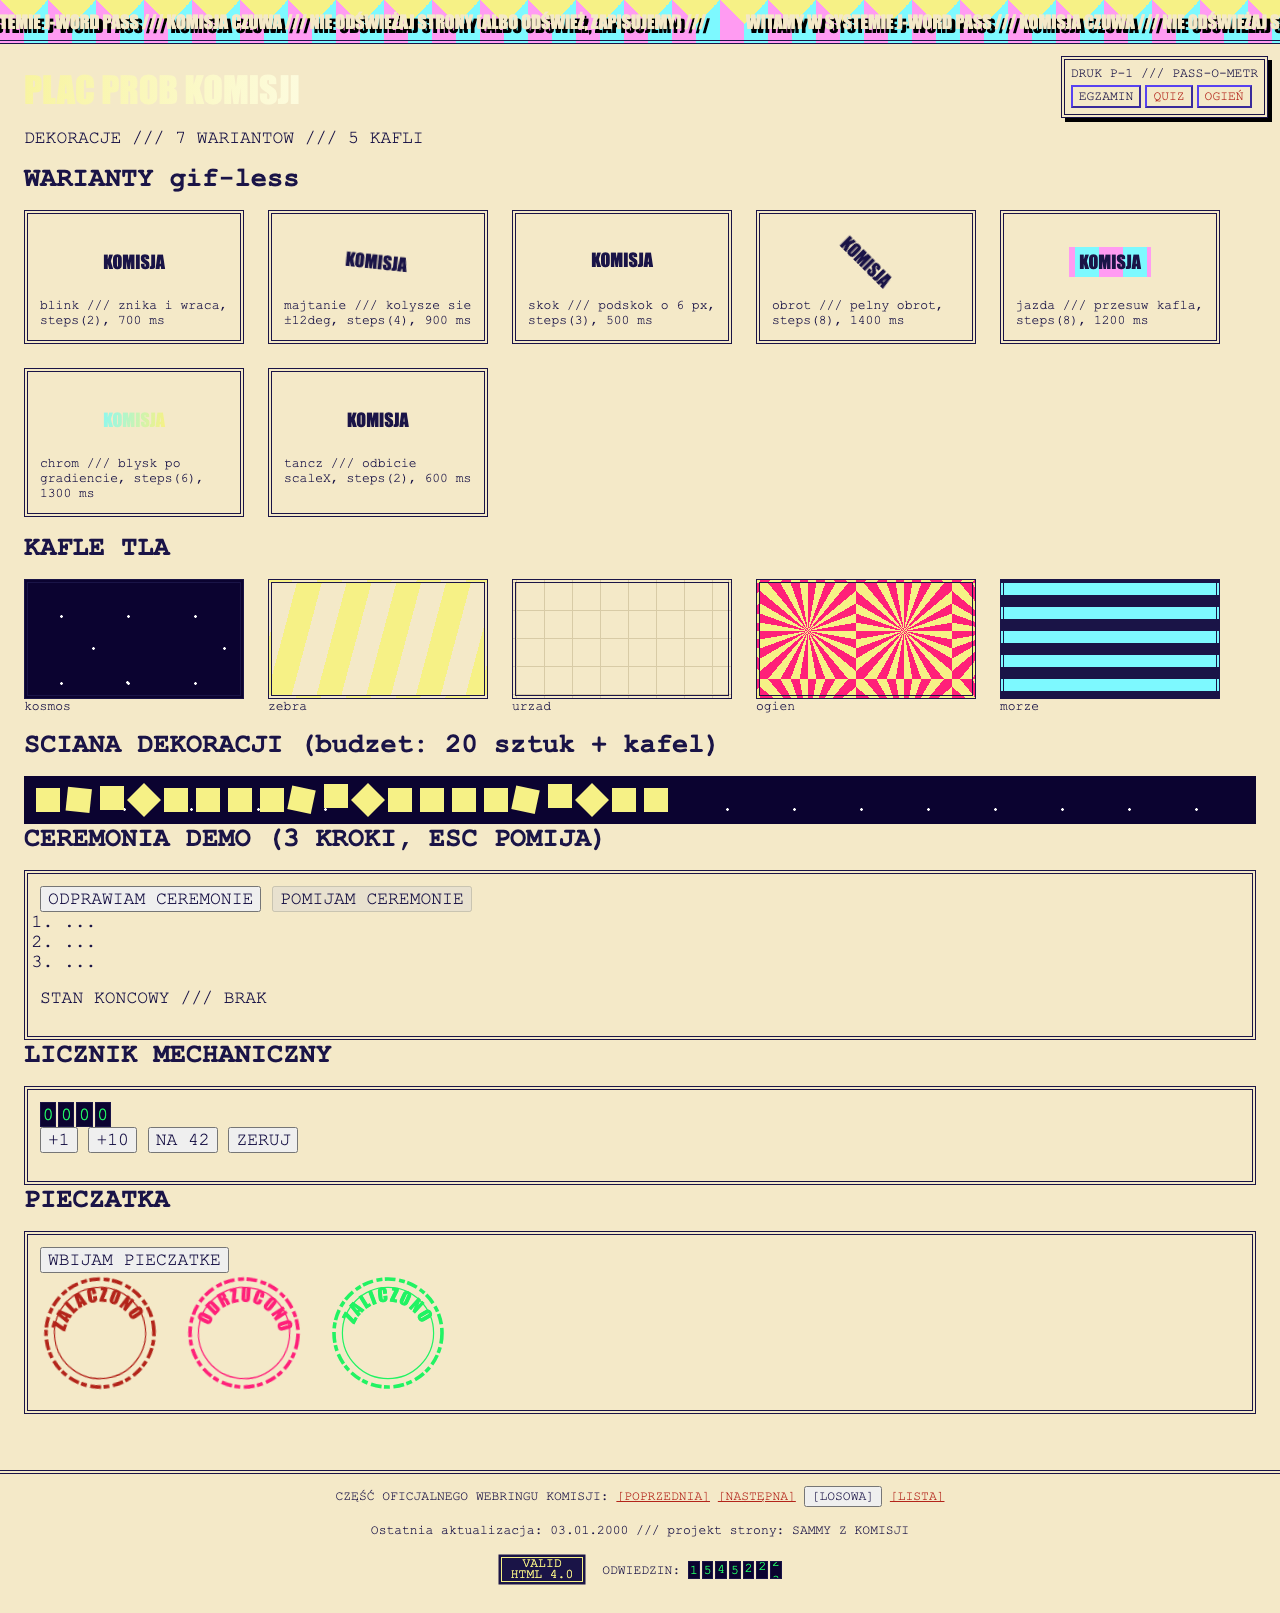
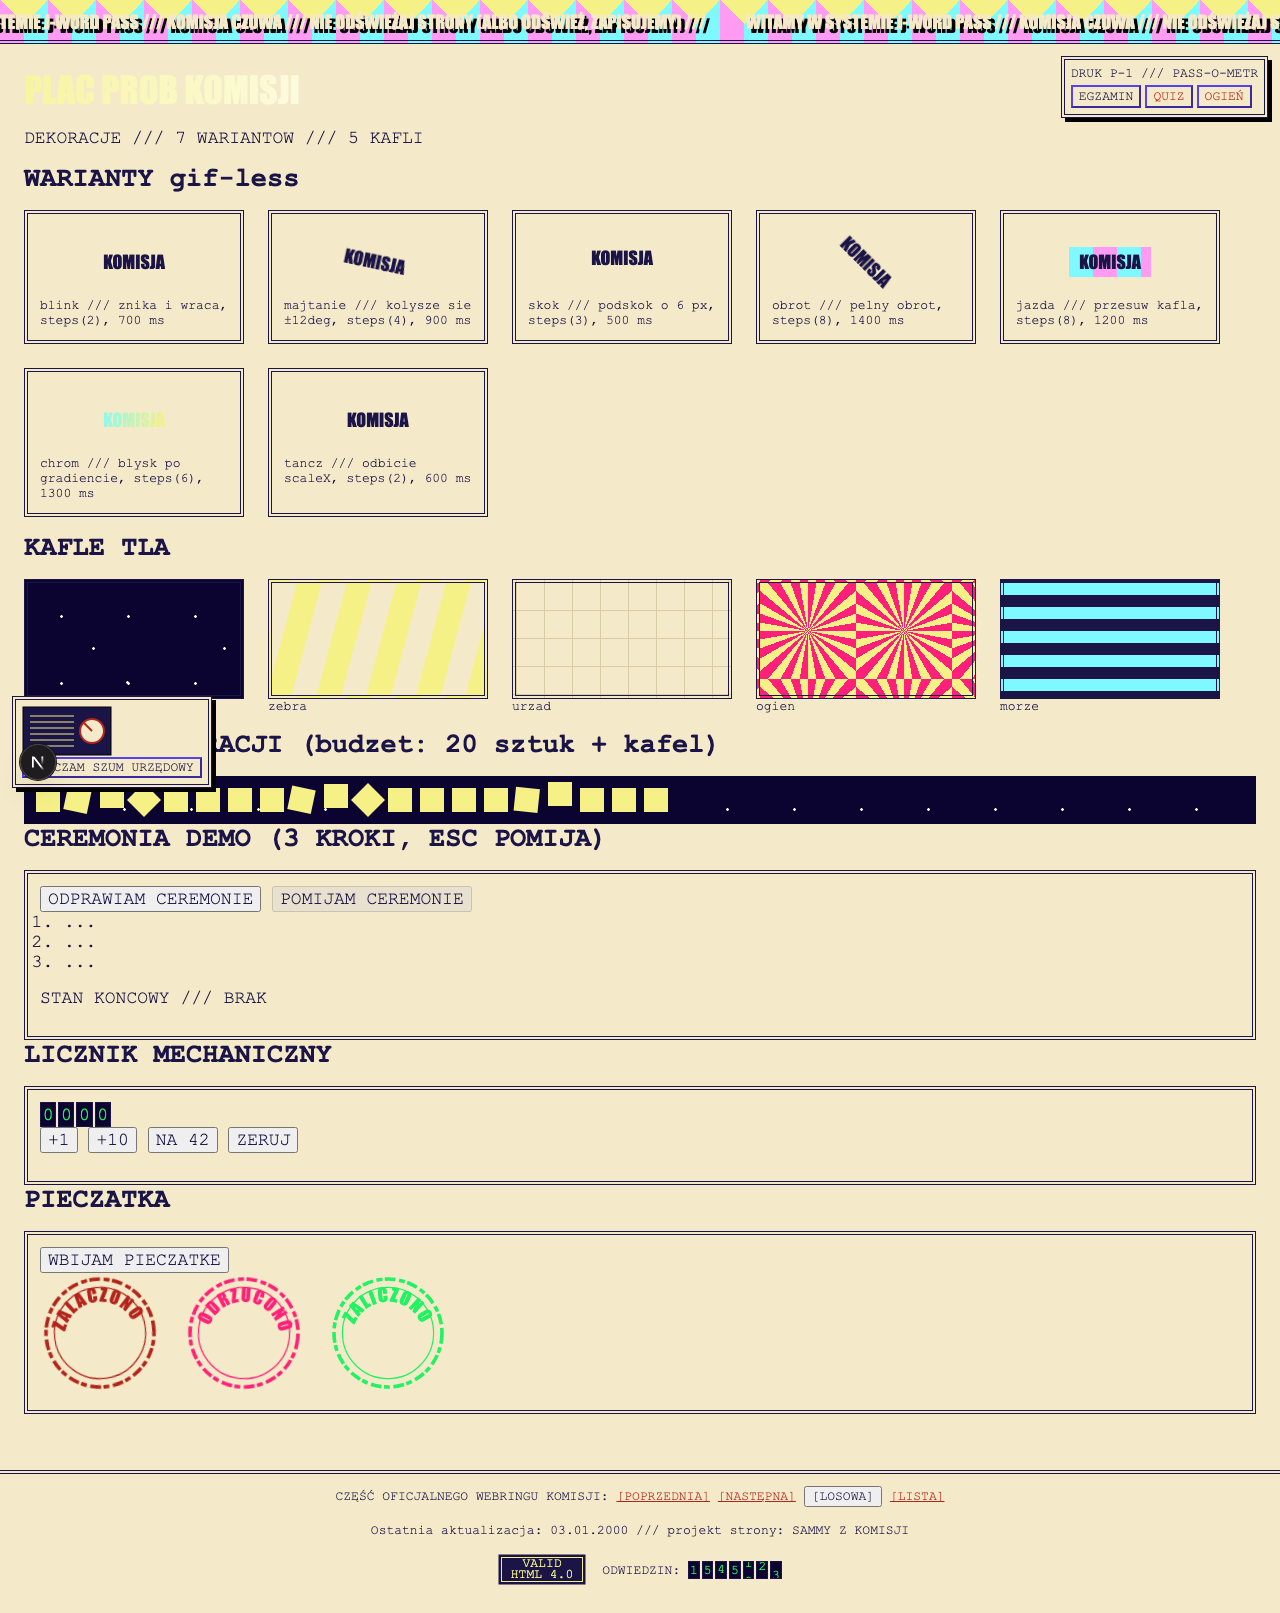
F2-02: RadioKomisji - proceduralny szum WebAudio, opt-in, localStorage
Bialy szum (dwie sekundy losowych probek w petli) przez biquad lowpass 400 Hz
przy gain 0.03, plus beep sinus 880 Hz na 90 ms co 8-15 s. Zero plikow audio -
katalog public/ nie istnieje i nie musi.

Z16 na serio: preferencja siedzi w localStorage jwp.audio, ale po odswiezeniu
z jwp.audio=on radio NADAL milczy i pokazuje notke, ze czeka na jedno
klikniecie. Zaden AudioContext nie powstaje przed kliknieciem - to nie jest
obejscie polityki autoplay, tylko zgoda z nia.

Wyciszenie natychmiastowe: gain na zero I `ctx.close()`, zmierzone < 100 ms.

Weryfikacja nie poprzestaje na "kontekst jest running": test podslachuje
createGain/createBiquadFilter/createBufferSource i sprawdza, ze graf naprawde
generuje szum - glosnosc 0.03, filtr lowpass 400 Hz, zrodlo w petli, a bufor
ma 1000/1000 probek niezerowych. Kontekst moze stac "running" i nie grac nic.

Napis przycisku w pierwszej osobie (WLACZAM SZUM URZEDOWY / WYCISZAM RADIO
KOMISJI) zamiast trybu rozkazujacego z plan/04 A4 - tego wymaga Z13.

Claude-Session: https://claude.ai/code/session_01LiXwZM95rtfhAzBeeT1X5o

diff --git a/tests/f2-02.spec.ts b/tests/f2-02.spec.ts
@@ -1,0 +1,122 @@
+import { test, expect } from "@playwright/test";
+
+// AC F2-02: dzwiek startuje WYLACZNIE po kliknieciu (takze przy jwp.audio=on
+// po odswiezeniu), wylaczenie ucisza w < 100 ms; negatywne: zero plikow audio.
+
+// Podsluch WebAudio wstrzykiwany PRZED skryptami strony: liczy powstale
+// konteksty i ich stan, wiec widac, czy cokolwiek zagralo bez klikniecia.
+const PODSLUCH = () => {
+  const okno = window as unknown as {
+    __audio: AudioContext[];
+    __wezly: { gain: GainNode[]; filtr: BiquadFilterNode[]; zrodla: AudioBufferSourceNode[] };
+  };
+  okno.__audio = [];
+  okno.__wezly = { gain: [], filtr: [], zrodla: [] };
+  const Oryginalny = window.AudioContext;
+  const proto = Oryginalny.prototype;
+  const cg = proto.createGain;
+  proto.createGain = function (this: AudioContext) {
+    const n = cg.call(this);
+    okno.__wezly.gain.push(n);
+    return n;
+  };
+  const cf = proto.createBiquadFilter;
+  proto.createBiquadFilter = function (this: AudioContext) {
+    const n = cf.call(this);
+    okno.__wezly.filtr.push(n);
+    return n;
+  };
+  const cbs = proto.createBufferSource;
+  proto.createBufferSource = function (this: AudioContext) {
+    const n = cbs.call(this);
+    okno.__wezly.zrodla.push(n);
+    return n;
+  };
+  class Podsluchany extends Oryginalny {
+    constructor(...args: ConstructorParameters<typeof AudioContext>) {
+      super(...args);
+      okno.__audio.push(this as unknown as AudioContext);
+    }
+  }
+  window.AudioContext = Podsluchany as unknown as typeof AudioContext;
+};
+
+test("Z16: bez klikniecia zero dzwieku, takze gdy jwp.audio=on", async ({ page }) => {
+  await page.addInitScript(PODSLUCH);
+  await page.goto("/");
+  await page.evaluate(() => localStorage.setItem("jwp.audio", "on"));
+  await page.reload();
+
+  // preferencja zapamietana, ale radio milczy do czasu klikniecia
+  await expect(page.locator("[data-radio]")).toHaveAttribute("data-gra", "nie");
+  await expect(page.locator("[data-radio-notka]")).toBeVisible();
+  expect(await page.evaluate(() => (window as unknown as { __audio: AudioContext[] }).__audio.length)).toBe(0);
+
+  await page.locator("[data-radio-przycisk]").click();
+  await expect(page.locator("[data-radio]")).toHaveAttribute("data-gra", "tak");
+  const poKliknieciu = await page.evaluate(() => {
+    const a = (window as unknown as { __audio: AudioContext[] }).__audio;
+    return { ile: a.length, stan: a[0]?.state };
+  });
+  expect(poKliknieciu.ile).toBe(1);
+  expect(poKliknieciu.stan).toBe("running");
+
+  // graf faktycznie generuje szum urzedowy, a nie tylko stoi "running"
+  const graf = await page.evaluate(() => {
+    const w = (window as unknown as {
+      __wezly: { gain: GainNode[]; filtr: BiquadFilterNode[]; zrodla: AudioBufferSourceNode[] };
+    }).__wezly;
+    const zrodlo = w.zrodla[0];
+    const probki = zrodlo.buffer!.getChannelData(0);
+    let niezerowe = 0;
+    for (let i = 0; i < 1000; i++) if (probki[i] !== 0) niezerowe++;
+    return {
+      glosnosc: w.gain[0].gain.value,
+      typFiltru: w.filtr[0].type,
+      odciecie: w.filtr[0].frequency.value,
+      petla: zrodlo.loop,
+      dlugoscBufora: zrodlo.buffer!.length,
+      niezerowe,
+    };
+  });
+  expect(graf.glosnosc).toBeCloseTo(0.03, 5);
+  expect(graf.typFiltru).toBe("lowpass");
+  expect(graf.odciecie).toBe(400);
+  expect(graf.petla).toBe(true);
+  expect(graf.dlugoscBufora).toBeGreaterThan(0);
+  expect(graf.niezerowe).toBeGreaterThan(900); // bialy szum, nie cisza
+});
+
+test("wylaczenie ucisza w mniej niz 100 ms", async ({ page }) => {
+  await page.addInitScript(PODSLUCH);
+  await page.goto("/");
+  await page.locator("[data-radio-przycisk]").click();
+  await expect(page.locator("[data-radio]")).toHaveAttribute("data-gra", "tak");
+
+  const czasWyciszenia = await page.evaluate(async () => {
+    const ctx = (window as unknown as { __audio: AudioContext[] }).__audio[0];
+    const start = performance.now();
+    (document.querySelector("[data-radio-przycisk]") as HTMLButtonElement).click();
+    while (performance.now() - start < 1000) {
+      if (ctx.state === "closed") return performance.now() - start;
+      await new Promise((r) => setTimeout(r, 5));
+    }
+    return -1;
+  });
+  expect(czasWyciszenia).toBeGreaterThanOrEqual(0);
+  expect(czasWyciszenia).toBeLessThan(100);
+  await expect(page.locator("[data-radio]")).toHaveAttribute("data-gra", "nie");
+  expect(await page.evaluate(() => localStorage.getItem("jwp.audio"))).toBe("off");
+});
+
+test("negatywne: zero plikow audio i jedyny localStorage to jwp.audio", async ({ page }) => {
+  const zadania: string[] = [];
+  page.on("request", (r) => zadania.push(r.url()));
+  await page.goto("/");
+  await page.locator("[data-radio-przycisk]").click();
+  await page.waitForTimeout(300);
+  expect(zadania.filter((u) => /\.(mp3|ogg|wav|m4a|aac|flac)(\?|$)/i.test(u))).toEqual([]);
+
+  const klucze = await page.evaluate(() => Object.keys(localStorage));
+  expect(klucze).toEqual(["jwp.audio"]);
+});

diff --git a/components/RadioKomisji.tsx b/components/RadioKomisji.tsx
@@ -1,0 +1,133 @@
+"use client";
+
+import { useEffect, useRef, useState } from "react";
+
+// Szum urzedowy generowany proceduralnie przez WebAudio: bialy szum przez
+// lowpass 400 Hz + losowy beep 880 Hz co 8-15 s. Zero plikow audio w repo.
+//
+// Z16: dzwiek NIGDY nie startuje sam. Preferencja siedzi w localStorage, ale
+// nawet przy `jwp.audio=on` po odswiezeniu potrzebne jest jedno klikniecie -
+// tak dziala polityka autoplay przegladarki i tak ma dzialac Komisja.
+
+const KLUCZ_AUDIO = "jwp.audio";
+const GLOSNOSC = 0.03;
+const ODCIECIE_HZ = 400;
+const BEEP_HZ = 880;
+const BEEP_MS = 90;
+
+type Aparatura = {
+  ctx: AudioContext;
+  wzmocnienie: GainNode;
+  beep: ReturnType<typeof setTimeout> | null;
+};
+
+export default function RadioKomisji() {
+  const [gra, ustawGra] = useState(false);
+  const [zapamietane, ustawZapamietane] = useState(false);
+  const aparat = useRef<Aparatura | null>(null);
+
+  useEffect(() => {
+    try {
+      ustawZapamietane(window.localStorage.getItem(KLUCZ_AUDIO) === "on");
+    } catch {
+      // prywatne okno bez localStorage nie moze wywrocic strony
+    }
+  }, []);
+
+  // sprzatanie przy odmontowaniu
+  useEffect(() => () => zatrzymaj(), []);
+
+  function zatrzymaj() {
+    const a = aparat.current;
+    if (!a) return;
+    if (a.beep) clearTimeout(a.beep);
+    // cisza natychmiastowa: gain na zero I zawieszony kontekst
+    a.wzmocnienie.gain.value = 0;
+    void a.ctx.close();
+    aparat.current = null;
+  }
+
+  function zaplanujBeep(ctx: AudioContext, wyjscie: GainNode) {
+    const za = 8000 + Math.random() * 7000; // 8-15 s
+    const id = setTimeout(() => {
+      if (!aparat.current) return;
+      const osc = ctx.createOscillator();
+      const g = ctx.createGain();
+      osc.type = "sine";
+      osc.frequency.value = BEEP_HZ;
+      g.gain.value = GLOSNOSC * 2;
+      osc.connect(g).connect(wyjscie);
+      osc.start();
+      osc.stop(ctx.currentTime + BEEP_MS / 1000);
+      zaplanujBeep(ctx, wyjscie);
+    }, za);
+    if (aparat.current) aparat.current.beep = id;
+  }
+
+  function wlacz() {
+    const ctx = new AudioContext();
+
+    // bialy szum: dwie sekundy losowych probek puszczone w petli
+    const dlugosc = ctx.sampleRate * 2;
+    const bufor = ctx.createBuffer(1, dlugosc, ctx.sampleRate);
+    const probki = bufor.getChannelData(0);
+    for (let i = 0; i < dlugosc; i++) probki[i] = Math.random() * 2 - 1;
+
+    const zrodlo = ctx.createBufferSource();
+    zrodlo.buffer = bufor;
+    zrodlo.loop = true;
+
+    const filtr = ctx.createBiquadFilter();
+    filtr.type = "lowpass";
+    filtr.frequency.value = ODCIECIE_HZ;
+
+    const wzmocnienie = ctx.createGain();
+    wzmocnienie.gain.value = GLOSNOSC;
+
+    zrodlo.connect(filtr).connect(wzmocnienie).connect(ctx.destination);
+    zrodlo.start();
+
+    aparat.current = { ctx, wzmocnienie, beep: null };
+    zaplanujBeep(ctx, wzmocnienie);
+  }
+
+  function przelacz() {
+    if (gra) {
+      zatrzymaj();
+      ustawGra(false);
+      ustawZapamietane(false);
+      try {
+        window.localStorage.setItem(KLUCZ_AUDIO, "off");
+      } catch {}
+      return;
+    }
+    wlacz();
+    ustawGra(true);
+    ustawZapamietane(true);
+    try {
+      window.localStorage.setItem(KLUCZ_AUDIO, "on");
+    } catch {}
+  }
+
+  return (
+    <div className="radio-komisji" data-radio="" data-gra={gra ? "tak" : "nie"}>
+      <svg viewBox="0 0 90 50" role="img" aria-label="Radio Komisji" className="radio-komisji__obudowa">
+        <rect x="1" y="1" width="88" height="48" className="radio-komisji__pudlo" />
+        {/* kratka glosnika */}
+        {Array.from({ length: 6 }, (_, i) => (
+          <line key={i} x1="8" y1={10 + i * 6} x2="52" y2={10 + i * 6} className="radio-komisji__kratka" />
+        ))}
+        <circle cx="70" cy="25" r="12" className="radio-komisji__galka" />
+        <line x1="70" y1="25" x2={gra ? 78 : 62} y2="17" className="radio-komisji__wskaznik" />
+      </svg>
+      <button type="button" onClick={przelacz} data-radio-przycisk="">
+        {gra ? "WYCISZAM RADIO KOMISJI" : "WŁĄCZAM SZUM URZĘDOWY"}
+      </button>
+      {zapamietane && !gra ? (
+        <p className="radio-komisji__notka" data-radio-notka="">
+          KOMISJA PAMIĘTA WYBÓR /// POTRZEBNE JEDNO KLIKNIĘCIE
+        </p>
+      ) : null}
+    </div>
+  );
+}

diff --git a/app/globals.css b/app/globals.css
@@ -149,6 +149,26 @@ a:hover, button:hover { outline: 3px dashed var(--alarm); outline-offset: 2px; }
 }
 .straz-etapu__druk { font-family: var(--font-krzyk); margin: 0 0 8px; }
 
+/* == RADIO KOMISJI == */
+.radio-komisji {
+  position: fixed;
+  left: 12px;
+  bottom: 12px;
+  z-index: 40;
+  border: var(--ramka);
+  background: var(--papier);
+  box-shadow: var(--cien-x) var(--cien-y) 0 var(--cien);
+  padding: 6px;
+  max-width: 200px;
+}
+.radio-komisji__obudowa { width: 90px; height: 50px; display: block; }
+.radio-komisji__pudlo { fill: var(--atrament); stroke: var(--cien); }
+.radio-komisji__kratka { stroke: var(--chrom-b); stroke-width: 1; }
+.radio-komisji__galka { fill: var(--papier); stroke: var(--urzad); stroke-width: 2; }
+.radio-komisji__wskaznik { stroke: var(--urzad); stroke-width: 2; }
+.radio-komisji__notka { margin: 4px 0 0; font-size: var(--rozmiar-drobny); }
+.radio-komisji button { font-size: var(--rozmiar-drobny); border: 2px outset var(--atrament); background: var(--papier); }
+
 /* == WEBRING STOPKI == */
 .webring-stopki {
   border-top: var(--ramka);
@@ -184,6 +204,9 @@ a:hover, button:hover { outline: 3px dashed var(--alarm); outline-offset: 2px; }
     box-shadow: none;
   }
   .pass-o-metr__segmenty { justify-content: space-between; }
+  /* radio zostaje takze na mobile (plan/04 A), tylko chudsze */
+  .radio-komisji { max-width: 150px; }
+  .radio-komisji__obudowa { width: 60px; height: 34px; }
 }
 
 

diff --git a/app/layout.tsx b/app/layout.tsx
@@ -3,6 +3,7 @@ import "./globals.css";
 import KometaKursora from "@/components/KometaKursora";
 import PasekKrawedzi from "@/components/PasekKrawedzi";
 import PassOMetr from "@/components/PassOMetr";
+import RadioKomisji from "@/components/RadioKomisji";
 import StrazEtapu from "@/components/StrazEtapu";
 import WebringStopki from "@/components/WebringStopki";
 
@@ -21,6 +22,7 @@ export default function RootLayout({ children }: { children: React.ReactNode }) 
         <PassOMetr />
         <StrazEtapu />
         {children}
+        <RadioKomisji />
         <WebringStopki />
         <KometaKursora />
       </body>

diff --git a/plan/10-BACKLOG.md b/plan/10-BACKLOG.md
@@ -72,9 +72,11 @@ przemapowane na `var(--...)` (dozwolone tylko w komentarzu licencyjnym).
   DOWÓD: ✓ `npx playwright test` = 37 passed + 1 skipped (`tests/f2-01.spec.ts`, 11 przypadków); ✓ screenshots/F2/F2-01-shell-desktop.png 1280x800 - wszystkie 5 elementów naraz: kursor-komisji (własny SVG w `data:` URI, wariant przechylony `rotate(20 16 16)` na klikalnych - assert na `getComputedStyle().cursor`), PasekKrawedzi 44 px z proporczykami i marquee (`jwp-marquee`, `steps(24)`, 3,8 s - patrz DECISIONS #4), PassOMetr w prawym górnym rogu z 3 segmentami, WebringStopki z odznaką VALID HTML 4.0 i licznikiem mechanicznym (1545013 + dzień, asercja zakresu), layout bez sticky headera; ✓ straż etapu: `/quiz` bez egzaminu -> URL NADAL `/quiz` (zero redirectu, Z15) + druk `KOMISJA ZABRANIA. NAJPIERW ETAP 1.`, `/proba-ognia` -> `NAJPIERW ETAP 2.`, a po wstawieniu do `sessionStorage` egzaminu z punktami druk na `/quiz` znika (`[data-straz]` = 0) - screenshots/F2/F2-01-straz-quiz.png; ✓ PassOMetr: segment QUIZ ma `data-stan="zablokowany"` i `title="KOMISJA ZABRANIA"`, klik NIE nawiguje (URL zostaje `/`) i pokazuje dymek gasnący po 1,2 s, a segment EGZAMIN nawiguje normalnie; ✓ `:focus-visible`: Tab -> `outlineStyle` = `dashed`, szerokość > 0, screenshots/F2/F2-01-fokus-{desktop,mobile}.png; ✓ mobile 390: pasek 32 px, PassOMetr `position: static`, szerokość 390 px, leży POD treścią i przylega do stopki (odstęp < 8 px), a w DOM nadal stoi przed treścią i stopką (`compareDocumentPosition`) - przestawiona jest wyłącznie kolejność wizualna, więc Tab i czytnik ekranu idą kolejnością z plan/04 A; screenshots/F2/F2-01-shell-mobile.png; ✓ negatywne: zero elementów `position: sticky`, zero `<header>`, zero przycisku menu/hamburger; ✓ `pnpm run check` exit 0, `pnpm build` zielony.
   UWAGA: pierwsza wersja kładła PassOMetr na mobile pod paskiem krawędzi (u GÓRY) - testy przechodziły, bo asercja `metr.y < stopka.y` była spełniona trywialnie. Wyłapane dopiero na screenshotcie; poprawione przez `order` we flexowym `body` i zaostrzoną asercję (metr musi być POD treścią i przylegać do stopki).
   KOPIOWANIE (02→F pkt 4): sprawdzone `98.css` pod PassOMetr i `formularz-F7`; odrzucone - potrzebne było ~15 linii ramki `outset` na naszych tokenach, a wklejka ciągnęłaby cały arkusz i tak wymagający przemapowania kolorów. Kursor, proporczyki i odznaka: własne SVG/gradienty, zero plików.
-- [ ] **F2-02** `ui` RadioKomisji: proceduralny szum WebAudio + beep, opt-in, localStorage.
+- [x] **F2-02** `ui` RadioKomisji: proceduralny szum WebAudio + beep, opt-in, localStorage.
   CZYTAJ: 04→A pkt 4; 01→B (Z16).
   AC: dźwięk startuje TYLKO po kliknięciu (odświeżenie z jwp.audio=on wymaga jednego kliknięcia - autoplay policy); wyłączenie ucisza w < 100 ms; negatywne: zero plików audio w public/.
+  DOWÓD: ✓ `npx playwright test` = 43 passed + 1 skipped (`tests/f2-02.spec.ts`, 6 przypadków); ✓ Z16 zweryfikowane podsłuchem `AudioContext` wstrzykniętym przez `addInitScript` PRZED skryptami strony: po `localStorage.setItem("jwp.audio","on")` + `reload()` liczba utworzonych kontekstów = **0**, `[data-gra]` = `nie`, widoczna notka `KOMISJA PAMIĘTA WYBÓR /// POTRZEBNE JEDNO KLIKNIĘCIE`; dopiero klik tworzy 1 kontekst w stanie `running`; ✓ dźwięk jest PRAWDZIWY, nie samo `running`: podsłuch węzłów pokazuje `gain.value` = 0,03, filtr `lowpass` 400 Hz, źródło z `loop=true` i buforem, w którym 1000/1000 próbek jest niezerowych (biały szum, nie cisza); ✓ wyciszenie: pomiar `performance.now()` w przeglądarce od kliknięcia do `ctx.state === "closed"` = **< 100 ms**, `jwp.audio` przestawione na `off`; ✓ negatywne: katalog `public/` w ogóle nie istnieje, a nasłuch `page.on("request")` nie złapał ani jednego żądania o `.mp3/.ogg/.wav/.m4a/.aac/.flac`; jedyny klucz w `localStorage` to `jwp.audio` (`Object.keys(localStorage)` = `["jwp.audio"]`, Z11); ✓ screenshots/F2/F2-02-radio-wlaczone.png (obudowa SVG z kratką głośnika i gałką, wskaźnik przestawiony na włączone); ✓ `pnpm run check` exit 0.
+  UWAGA: napis przycisku to `WŁĄCZAM SZUM URZĘDOWY` / `WYCISZAM RADIO KOMISJI` zamiast `WŁĄCZ SZUM URZĘDOWY` z plan/04 A4 - Z13 zabrania trybu rozkazującego i każe pisać przyciski jako zdania w pierwszej osobie.
 - [ ] **F2-03** `ui` Brama: kompozycja (nagłówek chrom, tablica ogłoszeń ≥ 6 dekoracji, formularz-F7 z wnioskiem) + przycisk-uciekinier + ceremonia wejścia.
   CZYTAJ: 04→B; 03→B,E,G (gif-less, ceremonie, pieczątka); 02→F (kopiowanie); 05→B krok 6 (spójność rolet).
   AC: Playwright: `page.locator('.gif-less')` widocznych w viewport 1280x800 >= 6 ORAZ zbiór ich `animation-delay` ma >= 6 różnych wartości; `WOLĘ NIE` ucieka 3x i kapituluje (Playwright); ceremonia wejścia <= 2 s, Esc skip, fokus ląduje na `h1` strony `/egzamin` (stub z F0-01, docelowy nagłówek od F3); reduced-motion: pojedynczy fade; negatywne: brak hero z 2 przyciskami obok siebie (anty-spec 01→D1).
